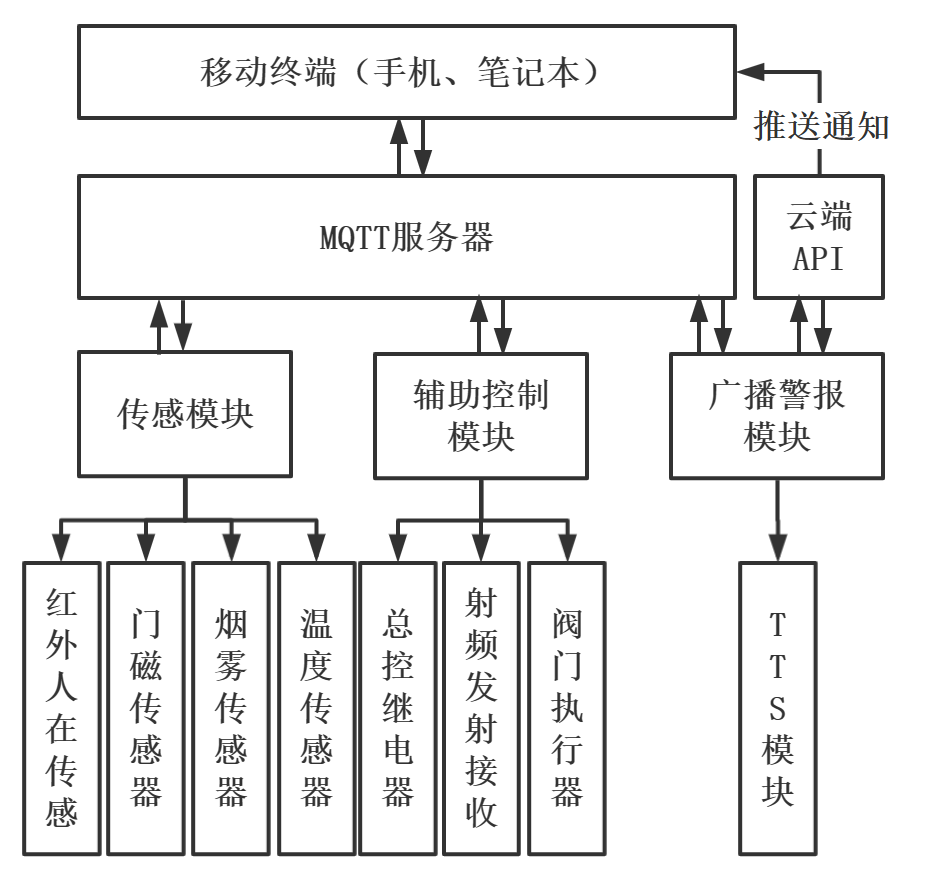
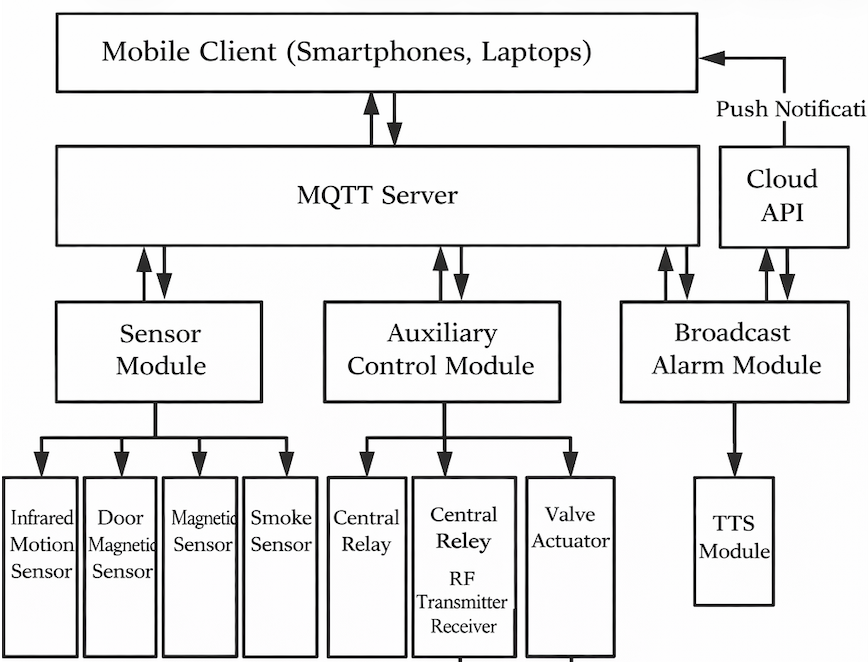
Refactor documentation for fuzzy fire controller and pin map guide with bilingual support and improved clarity

Changed region(s): [[0.0, 0.0, 1.0, 1.0], [0.8088, 0.9668, 0.871, 0.997]]

diff --git a/docs/fuzzy-controller.md b/docs/fuzzy-controller.md
@@ -1,62 +1,81 @@
-# 模糊控制器说明与修正
+<a id="top"></a>
 
-## 1. 设计目标
+<div align="center">
+  <h1>🔥 Fuzzy Fire Controller</h1>
+  <p><strong>Design Notes and Implementation Corrections</strong></p>
+  <p>Bilingual reference for the fuzzy fire-risk model used in the sensor node.</p>
+  <p>
+    <a href="#jp"><kbd>🇯🇵 日本語版</kbd></a>
+    <a href="#en"><kbd>🇺🇸 English Version</kbd></a>
+  </p>
+</div>
 
-本系统使用 **MQ-2 可燃气体浓度** 与 **DHT11 温度** 作为输入，输出 `0 ~ 100` 的火灾风险指数，用于减少单一阈值法带来的误报。
+---
 
-## 2. 输入 / 输出模糊集合
+<a id="jp"></a>
 
-### 2.1 有害气体（0 ~ 5）
+## 🇯🇵 日本語版
 
-- `LG`：Low Gas
-- `MG`：Medium Gas
-- `HG`：High Gas
+[<kbd>⬇ English へ移動</kbd>](#en)
 
-对应隶属函数：
+## 1. 設計目標
 
-- `LG`：左肩型，区间 `[0, 3.5]`
-- `MG`：三角型，顶点 `3.5`
-- `HG`：右肩型，区间 `[3.5, 5]`
+本システムでは **MQ-2 の可燃性ガス濃度** と **DHT11 の温度** を入力とし、`0 ~ 100` の火災リスク指数を出力します。  
+単一しきい値だけに頼る方法より誤報を減らすことが目的です。
+
+## 2. 入力 / 出力のファジィ集合
+
+### 2.1 有害ガス（0 ~ 5）
+
+- `LG`: Low Gas
+- `MG`: Medium Gas
+- `HG`: High Gas
+
+対応するメンバーシップ関数:
+
+- `LG`: 左肩型、区間 `[0, 3.5]`
+- `MG`: 三角型、頂点 `3.5`
+- `HG`: 右肩型、区間 `[3.5, 5]`
 
 ### 2.2 温度（-10 ~ 80 ℃）
 
-- `LT`：Low Temperature
-- `MT`：Medium Temperature
-- `HT`：High Temperature
+- `LT`: Low Temperature
+- `MT`: Medium Temperature
+- `HT`: High Temperature
 
-对应隶属函数：
+対応するメンバーシップ関数:
 
-- `LT`：左肩型，区间 `[-10, 30]`
-- `MT`：三角型，顶点 `30`
-- `HT`：右肩型，区间 `[30, 80]`
+- `LT`: 左肩型、区間 `[-10, 30]`
+- `MT`: 三角型、頂点 `30`
+- `HT`: 右肩型、区間 `[30, 80]`
 
-### 2.3 输出火灾指数（0 ~ 100）
+### 2.3 出力火災指数（0 ~ 100）
 
-- `VL`：Very Low
-- `L`：Low
-- `M`：Medium
-- `H`：High
-- `VH`：Very High
+- `VL`: Very Low
+- `L`: Low
+- `M`: Medium
+- `H`: High
+- `VH`: Very High
 
-对应输出隶属函数：
+対応する出力メンバーシップ関数:
 
-- `VL`：左肩型 `[0, 25]`
-- `L`：三角型 `0 / 25 / 50`
-- `M`：三角型 `25 / 50 / 75`
-- `H`：三角型 `50 / 75 / 100`
-- `VH`：右肩型 `[75, 100]`
+- `VL`: 左肩型 `[0, 25]`
+- `L`: 三角型 `0 / 25 / 50`
+- `M`: 三角型 `25 / 50 / 75`
+- `H`: 三角型 `50 / 75 / 100`
+- `VH`: 右肩型 `[75, 100]`
 
-## 3. 规则表
+## 3. ルール表
 
-按照论文中的规则表，采用 **温度为行、气体浓度为列** 的规则矩阵：
+論文中のルール表に従い、**温度を行、ガス濃度を列** とするルール行列を使用します。
 
-| 温度 \ 气体 | LG | MG | HG |
-|---|---:|---:|---:|
+| 温度 \ ガス | LG | MG | HG |
+| --- | ---: | ---: | ---: |
 | LT | VL | M | H |
-| MT | L  | M | H |
-| HT | M  | H | VH |
+| MT | L | M | H |
+| HT | M | H | VH |
 
-在代码中映射为：
+コード上では次のように対応しています。
 
 ```cpp
 // row = temperature set, col = gas set
@@ -67,53 +86,115 @@ static const int kRules[3][3] = {
 };
 ```
 
-## 4. 为什么要重写原附录中的 Fuzzy() 函数
+## 4. サンプル結果
 
-原附录代码里，模糊控制部分存在几个实质性问题：
+代表的な入力に対して次のような出力になります。
 
-### 4.1 规则表索引方向错误
-原代码将 `gas` 放在第一维、`temperature` 放在第二维直接取 `Rule[Xn][Yn]`，这与论文中的规则表布局不一致。
+| MQ-2 | 温度 | 火災指数 | 説明 |
+| ---: | ---: | ---: | --- |
+| 1.40 | 22.0 | ≈ 34.9 | 通常時の低リスク寄り |
+| 2.50 | 35.0 | ≈ 45.3 | 火災疑い、確認を促すレベル |
+| 4.45 | 30.2 | ≈ 65.2 | 緊急火災レベル |
 
-### 4.2 赋值误写成比较
-原代码中存在：
+
+## 7. コード位置
+
+- ヘッダ: `firmware/sensor_node/fuzzy_fire_controller.h`
+- 実装: `firmware/sensor_node/fuzzy_fire_controller.cpp`
+- 可視化 / シミュレーションスクリプト: `tools/fuzzy_surface.py`
+
+[<kbd>⬇ English Section</kbd>](#en)
+
+---
+
+<a id="en"></a>
+
+## 🇺🇸 English Version
+
+[<kbd>⬆ Back to Japanese</kbd>](#jp) [<kbd>⬆ Top</kbd>](#top)
+
+## 1. Design Goal
+
+This system uses **MQ-2 combustible gas concentration** and **DHT11 temperature** as inputs, then outputs a fire-risk score from `0 ~ 100`.  
+The goal is to reduce false alarms compared with a single-threshold approach.
+
+## 2. Fuzzy Input / Output Sets
+
+### 2.1 Harmful Gas (0 ~ 5)
+
+- `LG`: Low Gas
+- `MG`: Medium Gas
+- `HG`: High Gas
+
+Corresponding membership functions:
+
+- `LG`: left-shoulder function over `[0, 3.5]`
+- `MG`: triangular function with peak at `3.5`
+- `HG`: right-shoulder function over `[3.5, 5]`
+
+### 2.2 Temperature (-10 ~ 80 C)
+
+- `LT`: Low Temperature
+- `MT`: Medium Temperature
+- `HT`: High Temperature
+
+Corresponding membership functions:
+
+- `LT`: left-shoulder function over `[-10, 30]`
+- `MT`: triangular function with peak at `30`
+- `HT`: right-shoulder function over `[30, 80]`
+
+### 2.3 Output Fire Index (0 ~ 100)
+
+- `VL`: Very Low
+- `L`: Low
+- `M`: Medium
+- `H`: High
+- `VH`: Very High
+
+Corresponding output membership functions:
+
+- `VL`: left-shoulder function `[0, 25]`
+- `L`: triangular function `0 / 25 / 50`
+- `M`: triangular function `25 / 50 / 75`
+- `H`: triangular function `50 / 75 / 100`
+- `VH`: right-shoulder function `[75, 100]`
+
+## 3. Rule Table
+
+Following the thesis rule table, the rule matrix is organized with **temperature as rows and gas concentration as columns**.
+
+| Temperature \ Gas | LG | MG | HG |
+| --- | ---: | ---: | ---: |
+| LT | VL | M | H |
+| MT | L | M | H |
+| HT | M | H | VH |
+
+In code, that mapping becomes:
 
 ```cpp
-if (ZUmax[3] = ZUmax[2])
+// row = temperature set, col = gas set
+static const int kRules[3][3] = {
+  {0, 2, 3},
+  {1, 2, 3},
+  {2, 3, 4}
+};
 ```
 
-这里是赋值，不是比较，会直接破坏逻辑判断。
+## 4. Example Outputs
 
-### 4.3 反模糊过程不完整
-原代码只围绕“最大隶属度 / 次大隶属度”做简化处理，而不是对聚合后的输出模糊集执行标准 centroid 反模糊。
+Several representative inputs produce the following outputs.
 
-### 4.4 边界条件不稳定
-原代码对边界值与区间外值的处理不完整，容易造成未初始化值参与计算。
+| MQ-2 | Temperature | Fire Index | Notes |
+| ---: | ---: | ---: | --- |
+| 1.40 | 22.0 | ≈ 34.9 | Lower-risk normal condition |
+| 2.50 | 35.0 | ≈ 45.3 | Suspected fire, prompts confirmation |
+| 4.45 | 30.2 | ≈ 65.2 | Emergency fire condition |
 
-## 5. 当前实现采用的正确方法
+## 7. Code Locations
 
-现在仓库中 `fuzzy_fire_controller.cpp` 使用：
+- Header: `firmware/sensor_node/fuzzy_fire_controller.h`
+- Implementation: `firmware/sensor_node/fuzzy_fire_controller.cpp`
+- Simulation script: `tools/fuzzy_surface.py`
 
-- **Mamdani 推理**
-- 前件合成：`min`
-- 后件聚合：`max`
-- 反模糊：**centroid / center of gravity**
-
-这是一种更标准、更容易解释、也更适合论文展示和 GitHub 展示的实现方式。
-
-## 6. 示例结果
-
-当前实现下，几个代表性输入的输出如下：
-
-| MQ-2 | 温度 | 火灾指数 | 说明 |
-|---:|---:|---:|---|
-| 1.40 | 22.0 | ≈ 34.9 | 正常偏低风险 |
-| 2.50 | 35.0 | ≈ 45.3 | 疑似火情，触发求证 |
-| 4.45 | 30.2 | ≈ 65.2 | 紧急火情 |
-
-其中 `MQ-2 = 2.5, DHT11 = 35` 的输出约 `45.3`，与论文中图示案例一致。
-
-## 7. 代码位置
-
-- 头文件：`firmware/sensor_node/fuzzy_fire_controller.h`
-- 实现：`firmware/sensor_node/fuzzy_fire_controller.cpp`
-- 仿真脚本：`tools/fuzzy_surface.py`
+[<kbd>⬆ Back to Japanese</kbd>](#jp) [<kbd>⬆ Top</kbd>](#top)

diff --git a/docs/pin-map.md b/docs/pin-map.md
@@ -1,46 +1,84 @@
-# 引脚规划建议
+<a id="top"></a>
 
-> 下面的引脚分配基于你的论文附录代码进行整理，并保持和原设计尽量一致。  
-> 如果你实际焊接版本不同，只需要改各节点的 `config.h`。
+<div align="center">
+  <h1>📌 Pin Map Guide</h1>
+  <p><strong>ESP8266 Node Wiring Reference</strong></p>
+  <p>Recommended pin assignments for the sensor, control, and broadcast nodes.</p>
+  <p>
+    <a href="#jp"><kbd>🇯🇵 日本語版</kbd></a>
+    <a href="#en"><kbd>🇺🇸 English Version</kbd></a>
+  </p>
+</div>
+
+---
+
+<a id="jp"></a>
+
+## 🇯🇵 日本語版
+
+[<kbd>⬇ English へ移動</kbd>](#en)
+
+## 1. センサーノード
+
+| 機能 | ピン |
+| --- | --- |
+| DHT11 データ | `D1` |
+| PIR 人感センサ | `D5` |
+| ドアセンサ / リードスイッチ | `D6` |
+| MQ-2 アナログ入力 | `A0` |
+
+## 2. 制御ノード
+
+| 機能 | ピン |
+| --- | --- |
+| 433 MHz 送信 | `D1` |
+| サーボ | `D2` |
+| リレー | `D4` |
+
+## 3. 放送ノード
+
+| 機能 | ピン |
+| --- | --- |
+| TTS RX | `D5` |
+| TTS TX | `D6` |
+| 警告ランプ | `D1` |
+
+
+[<kbd>⬇ English Section</kbd>](#en)
+
+---
+
+<a id="en"></a>
+
+## 🇺🇸 English Version
+
+[<kbd>⬆ Back to Japanese</kbd>](#jp) [<kbd>⬆ Top</kbd>](#top)
+
 
 ## 1. Sensor Node
 
-| 功能 | 引脚 |
-|---|---|
-| DHT11 数据引脚 | `D1` |
-| PIR 人体红外 | `D5` |
-| 门磁 / 干簧管 | `D6` |
-| MQ-2 模拟输入 | `A0` |
+| Function | Pin |
+| --- | --- |
+| DHT11 data line | `D1` |
+| PIR motion sensor | `D5` |
+| Door sensor / reed switch | `D6` |
+| MQ-2 analog input | `A0` |
 
 ## 2. Control Node
 
-| 功能 | 引脚 |
-|---|---|
-| 433 发射 | `D1` |
-| 舵机 | `D2` |
-| 继电器 | `D4` |
+| Function | Pin |
+| --- | --- |
+| 433 MHz transmitter | `D1` |
+| Servo | `D2` |
+| Relay | `D4` |
 
 ## 3. Broadcast Node
 
-| 功能 | 引脚 |
-|---|---|
+| Function | Pin |
+| --- | --- |
 | TTS RX | `D5` |
 | TTS TX | `D6` |
-| 告警灯 | `D1` |
+| Alarm lamp | `D1` |
 
-## 4. 说明
 
-### 门磁输入
-建议使用 `INPUT_PULLUP`，并在 `config.h` 中配置触发电平。
-
-### 继电器
-很多常见继电器模块为**低电平触发**，所以代码中将触发电平配置化，不写死。
-
-### 舵机角度
-建议根据你实际阀门开闭动作，调整：
-
-- `SERVO_OPEN_ANGLE`
-- `SERVO_CLOSE_ANGLE`
-
-### 433 编码
-不同卷闸 / 插座 / 遥控模块的编码不同，请在 `config.h` 中填入你自己的编码。
+[<kbd>⬆ Back to Japanese</kbd>](#jp) [<kbd>⬆ Top</kbd>](#top)
